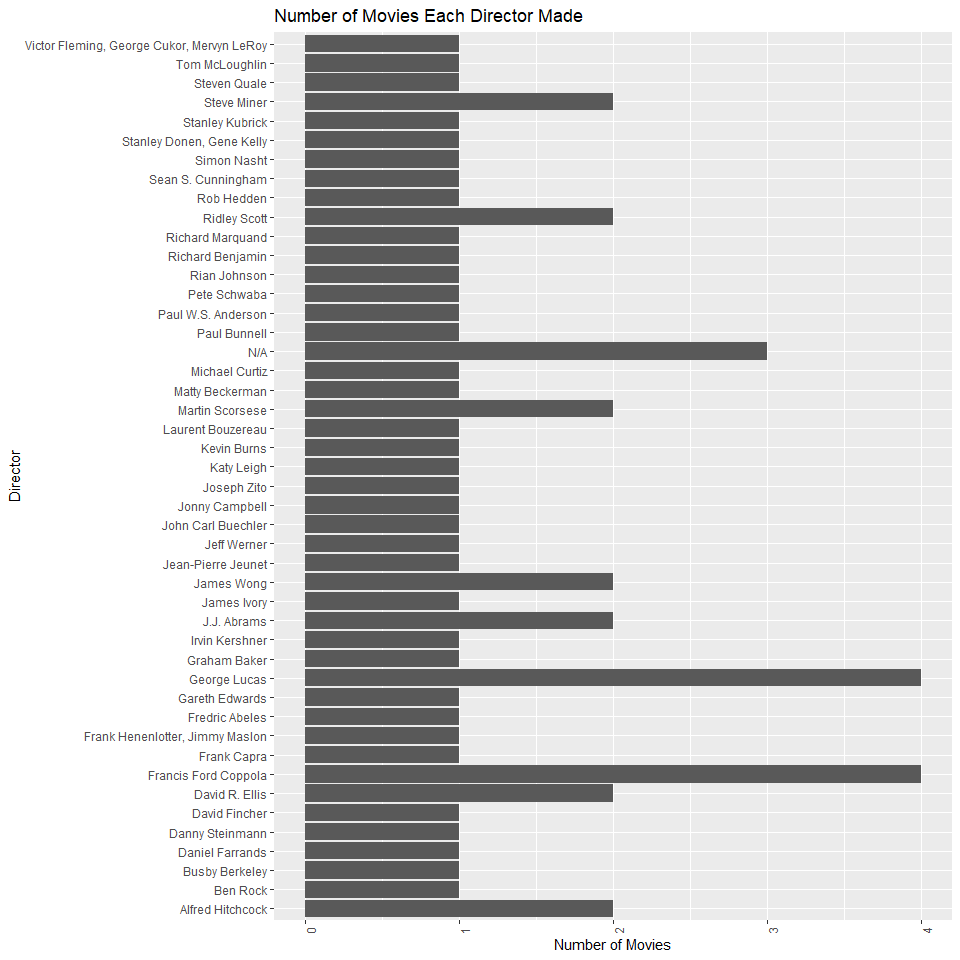
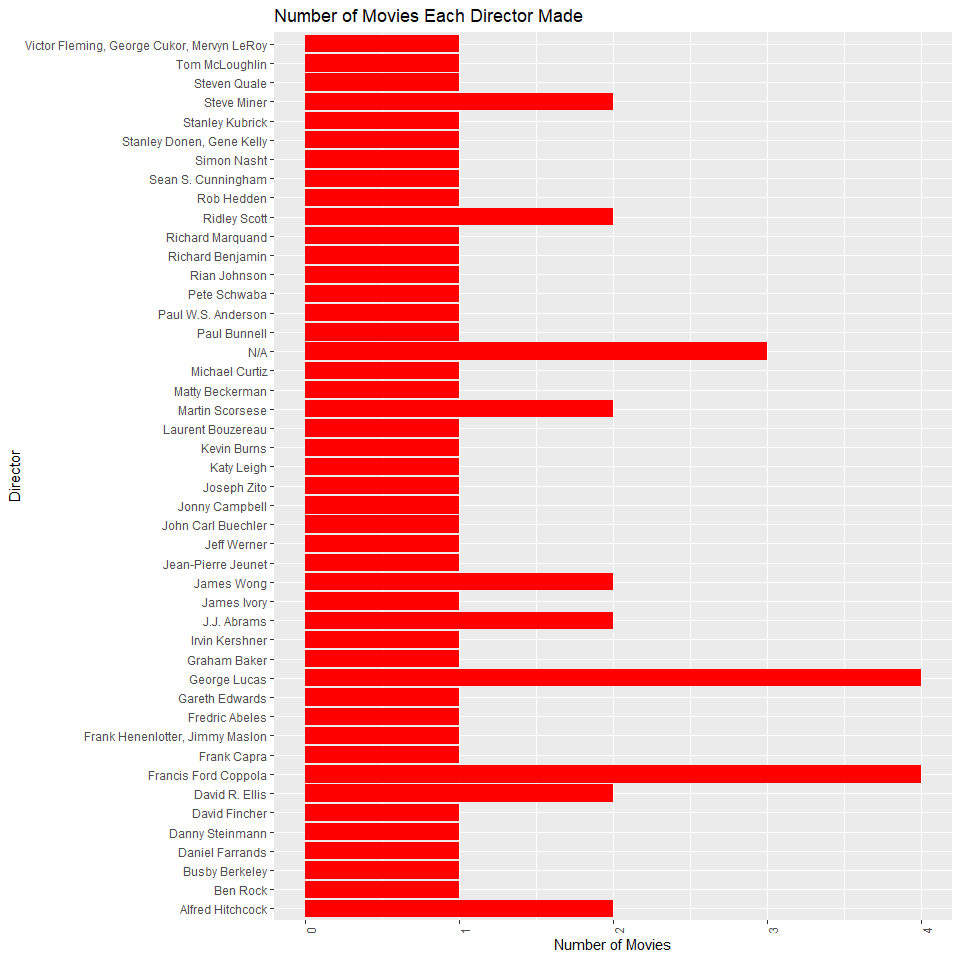
4:58_6_26_2022

Changed region(s): [[0.3125, 0.0312, 0.9688, 0.9688]]

diff --git a/README.md b/README.md
@@ -961,8 +961,8 @@ data set. We could make the bar graph below:
 C<- formatted_data %>%
   select(Title,Director)
 D<-unique(C)
-g<-ggplot(data = D, aes(x = Director ),fill="red")
-g + geom_bar() +
+g<-ggplot(data = D, aes(x = Director ))
+g + geom_bar(fill="red") +
   theme(axis.text.x = element_text(angle = 90)) +
   labs(x = "Director", title = "Number of Movies Each Director Made", y="Number of Movies") +
   coord_flip()
